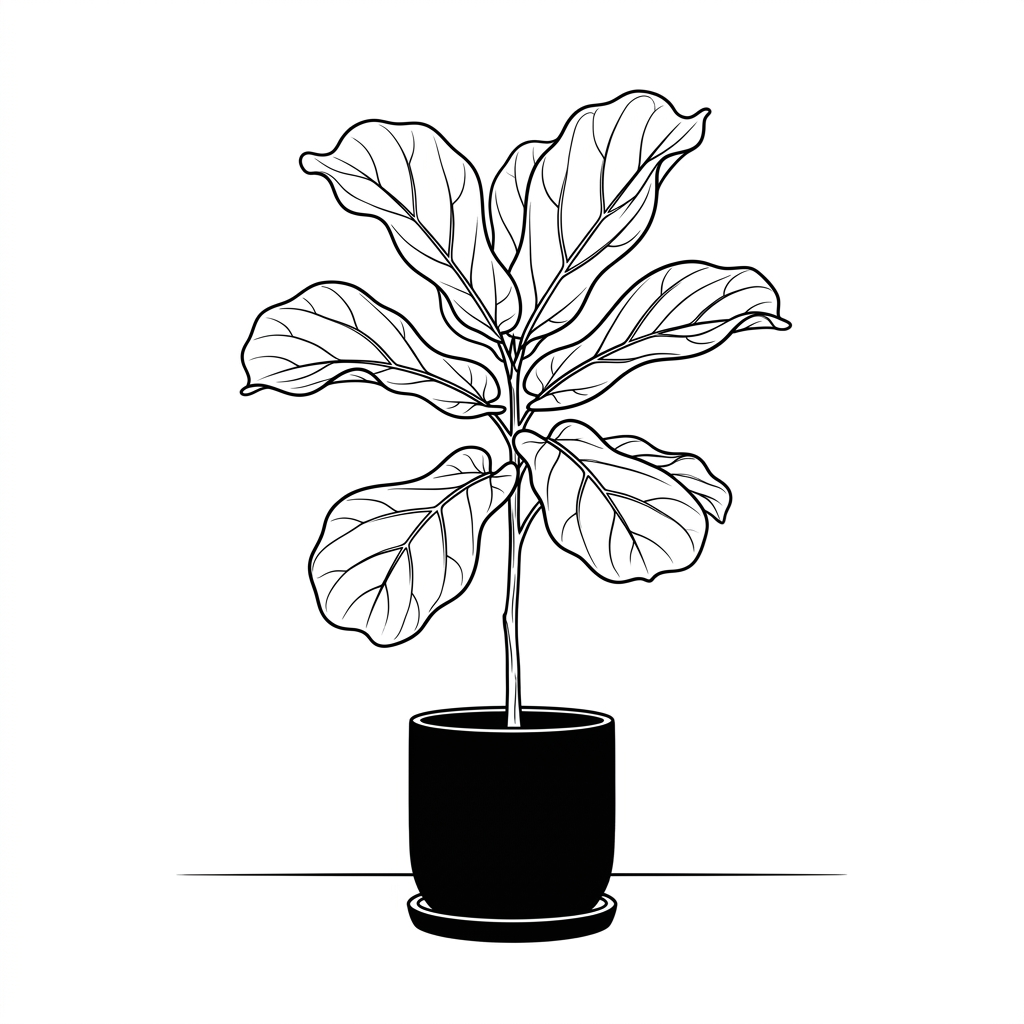
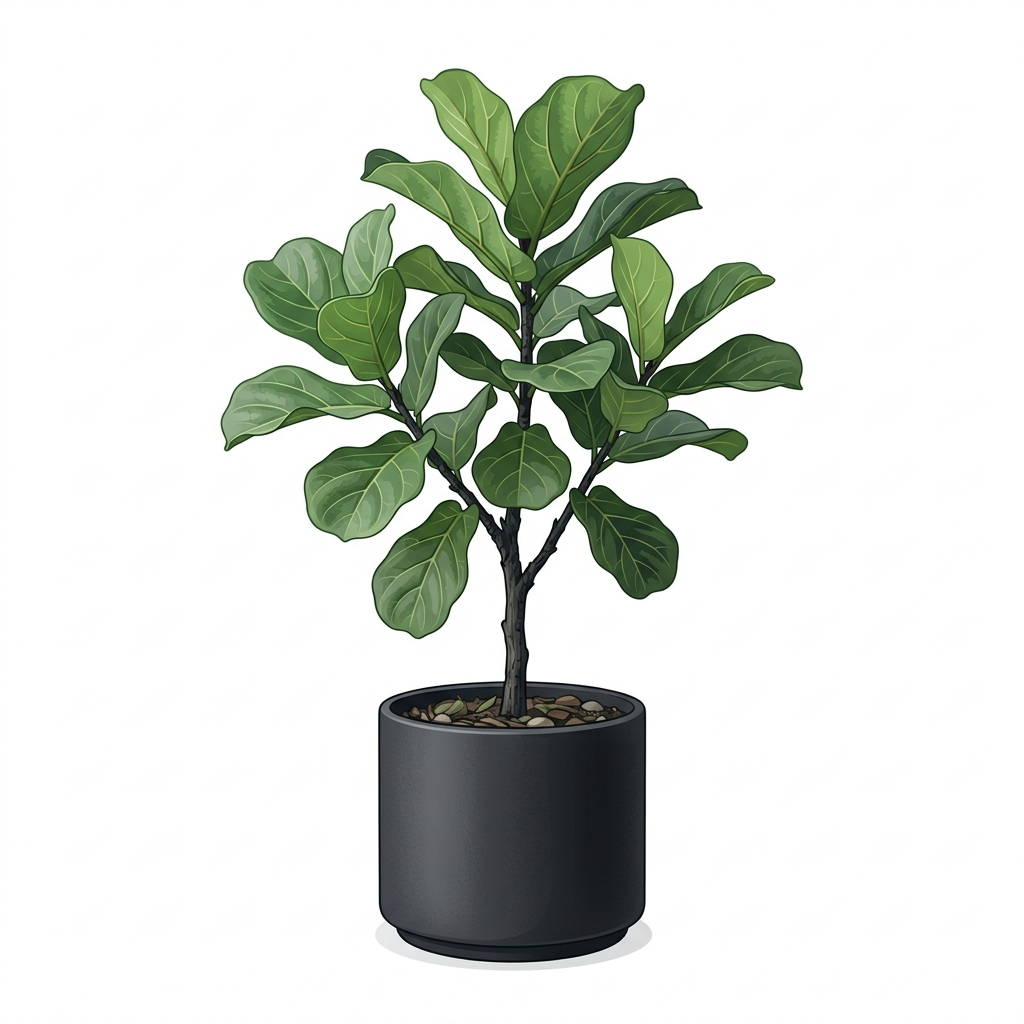
feat: replace botanical art with colorful version

Changed region(s): [[0.2188, 0.0625, 0.7812, 0.9688]]

diff --git a/index.html b/index.html
@@ -192,7 +192,7 @@
         <!-- Right Column: Scandinavian Monochrome Botanical Art with Ambient Float Animation -->
         <div class="lg:col-span-5 flex justify-center lg:justify-end">
           <div class="relative w-full max-w-sm p-4 bg-white/80 backdrop-blur-md rounded-2xl border border-slate-200/90 shadow-xl group transform hover:scale-[1.03] transition-all duration-300 animate-botanical">
-            <img src="/images/botanical-art.jpg" alt="Scandinavian Botanical Line Art" class="w-full h-auto object-contain rounded-xl mix-blend-multiply opacity-95 group-hover:opacity-100 transition-opacity duration-300" />
+            <img src="/images/botanical-art.jpg" alt="Scandinavian Botanical Line Art" class="w-full h-auto object-contain rounded-xl transition-opacity duration-300" />
           </div>
         </div>
 
